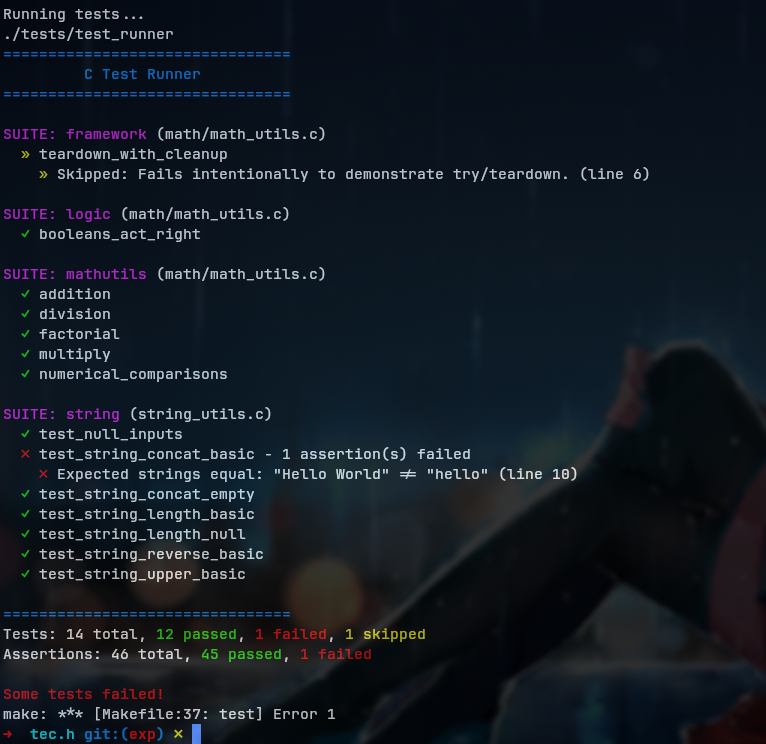
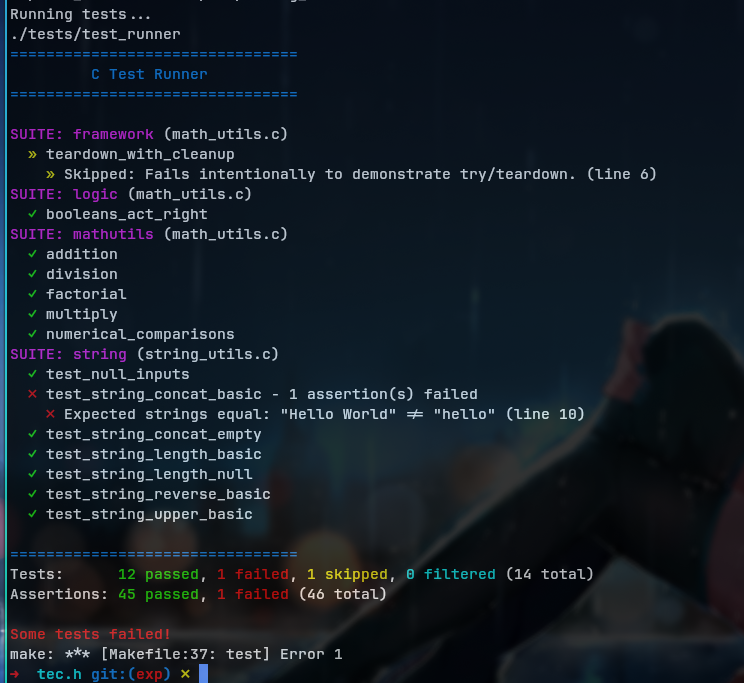
tec: refactor summary output and improve test filtering docs - Rewrite test summary to show `passed/failed/skipped/filtered` counts   in consistent and aligned format. - Drop redundant `suite_printed` logic; fix suite header spacing. - Clarify and expand filtering section in README with examples.
No behavior change for existing tests. Output is now more readable
and robust across terminal types. Docs don’t suck anymore.

diff --git a/tec.h b/tec.h
@@ -383,7 +383,7 @@ int tec_run_all(int argc, char** argv) {
     if (result) goto cleanup;
     printf(TEC_BLUE "================================\n");
     printf("         C Test Runner          \n");
-    printf("================================" TEC_RESET "\n\n");
+    printf("================================" TEC_RESET "\n");
 
     qsort(tec_context.registry.entries, tec_context.registry.tec_count,
           sizeof(tec_entry_t), tec_compare_entries);
@@ -398,16 +398,13 @@ int tec_run_all(int argc, char** argv) {
             continue;
         }
 
-        bool suite_printed = false;
         if (current_suite == NULL || strcmp(current_suite, test->suite) != 0) {
             current_suite = test->suite;
             const char* display_name = strrchr(test->file, '/');
             display_name = display_name ? display_name + 1 : test->file;
 
-            if (suite_printed) printf("\n");
-            printf(TEC_MAGENTA "SUITE: %s" TEC_RESET " (%s)\n", current_suite,
+            printf(TEC_MAGENTA "\nSUITE: %s" TEC_RESET " (%s)\n", current_suite,
                    display_name);
-            suite_printed = true;
         }
 
         tec_context.current_passed = 0;
@@ -426,18 +423,18 @@ int tec_run_all(int argc, char** argv) {
     }
 
     printf("\n" TEC_BLUE "================================" TEC_RESET "\n");
-    printf("Tests: %zu total, " TEC_GREEN "%zu passed" TEC_RESET ", " TEC_RED
-           "%zu failed" TEC_RESET ", " TEC_YELLOW "%zu skipped" TEC_RESET "\n",
-           tec_context.stats.ran_tests, tec_context.stats.passed_tests,
-           tec_context.stats.failed_tests, tec_context.stats.skipped_tests);
-    printf("Tests: %zu ran, %zu filtered, %zu total\n",
-           tec_context.stats.ran_tests, tec_context.stats.filtered_tests,
+    printf("Tests:      " TEC_GREEN "%zu passed" TEC_RESET ", " TEC_RED
+           "%zu failed" TEC_RESET ", " TEC_YELLOW "%zu skipped" TEC_RESET
+           ", " TEC_CYAN "%zu filtered" TEC_RESET " (%zu total)\n",
+           tec_context.stats.passed_tests, tec_context.stats.failed_tests,
+           tec_context.stats.skipped_tests, tec_context.stats.filtered_tests,
            tec_context.registry.tec_count);
-    printf("Assertions: %zu total, " TEC_GREEN "%zu passed" TEC_RESET
-           ", " TEC_RED "%zu failed" TEC_RESET "\n",
-           tec_context.stats.total_assertions,
+
+    printf("Assertions: " TEC_GREEN "%zu passed" TEC_RESET ", " TEC_RED
+           "%zu failed" TEC_RESET " (%zu total)\n",
            tec_context.stats.passed_assertions,
-           tec_context.stats.failed_assertions);
+           tec_context.stats.failed_assertions,
+           tec_context.stats.total_assertions);
 
     if (tec_context.stats.failed_tests == 0 &&
         tec_context.stats.skipped_tests == 0) {

diff --git a/README.md b/README.md
@@ -62,8 +62,8 @@ SUITE: string_test (my_test.c)
   ✓ test_strings
 
 ================================
-Tests: 2 total, 2 passed, 0 failed, 0 skipped
-Assertions: 3 total, 3 passed, 0 failed
+Tests:      2 passed, 0 failed, 0 skipped, 0 filtered (2 total)
+Assertions: 3 passed, 0 failed (3 total)
 
 All tests passed!
 ```
@@ -119,6 +119,19 @@ The library provides a straightforward set of assertions. On failure, it prints 
 ---
 
 ## Advanced Usage
+
+### Filtering Tests
+You can selectively run tests by using `-f` or `--filter` followed by a substring pattern.
+The filter is matched against the full test name in the format: `suite_name.test_name`
+
+```bash
+./test_runner -f math           # runs tests like math.add, math.subtract, etc.
+./test_runner --filter alloc    # matches memory.alloc, buffer.alloc, etc.
+./test_runner -f division -f io # runs tests matching "division" OR "io"
+```
+- You can provide multiple filters; tests matching any of them will be run.
+- Filtering is **case-sensitive** and uses simple **substring** logic (not regex).
+- If no filters are given, **all registered tests** will be executed.
 
 ### Skipping Tests
 You can skip a test by placing `TEC_SKIP("reason")` at the beginning of its body.
@@ -237,8 +250,8 @@ SUITE: calculator (calculator.c)
   ✓ test_multiply
 
 ================================
-Tests: 2 total, 2 passed, 0 failed, 0 skipped
-Assertions: 4 total, 4 passed, 0 failed
+Tests:      2 passed, 0 failed, 0 skipped, 0 filtered (2 total)
+Assertions: 4 passed, 0 failed (4 total)
 
 All tests passed!
 ```
